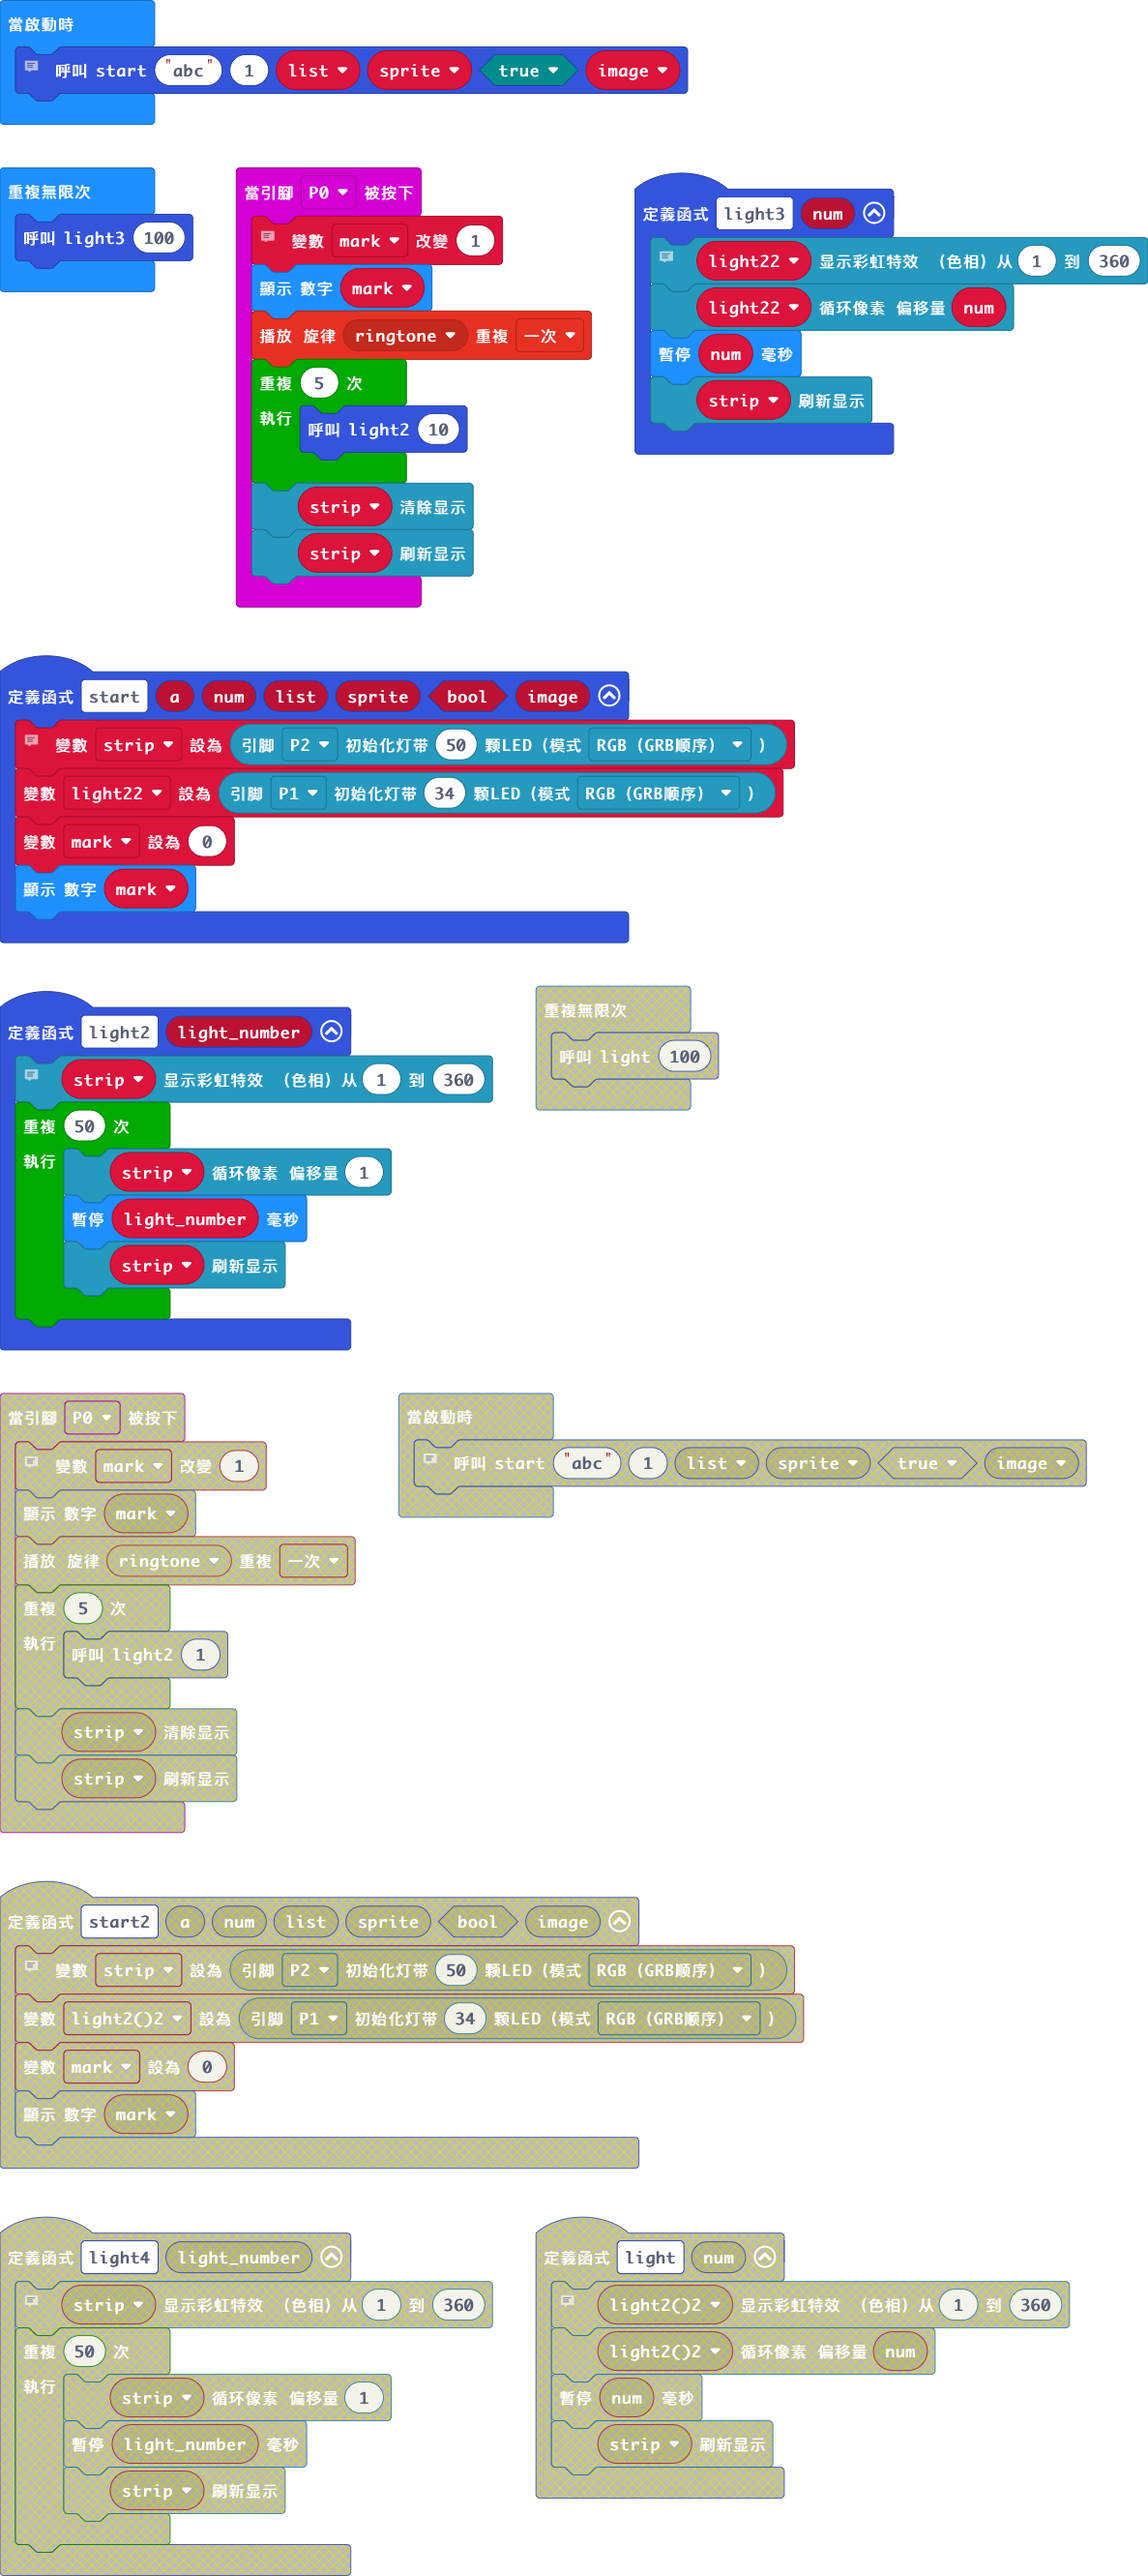
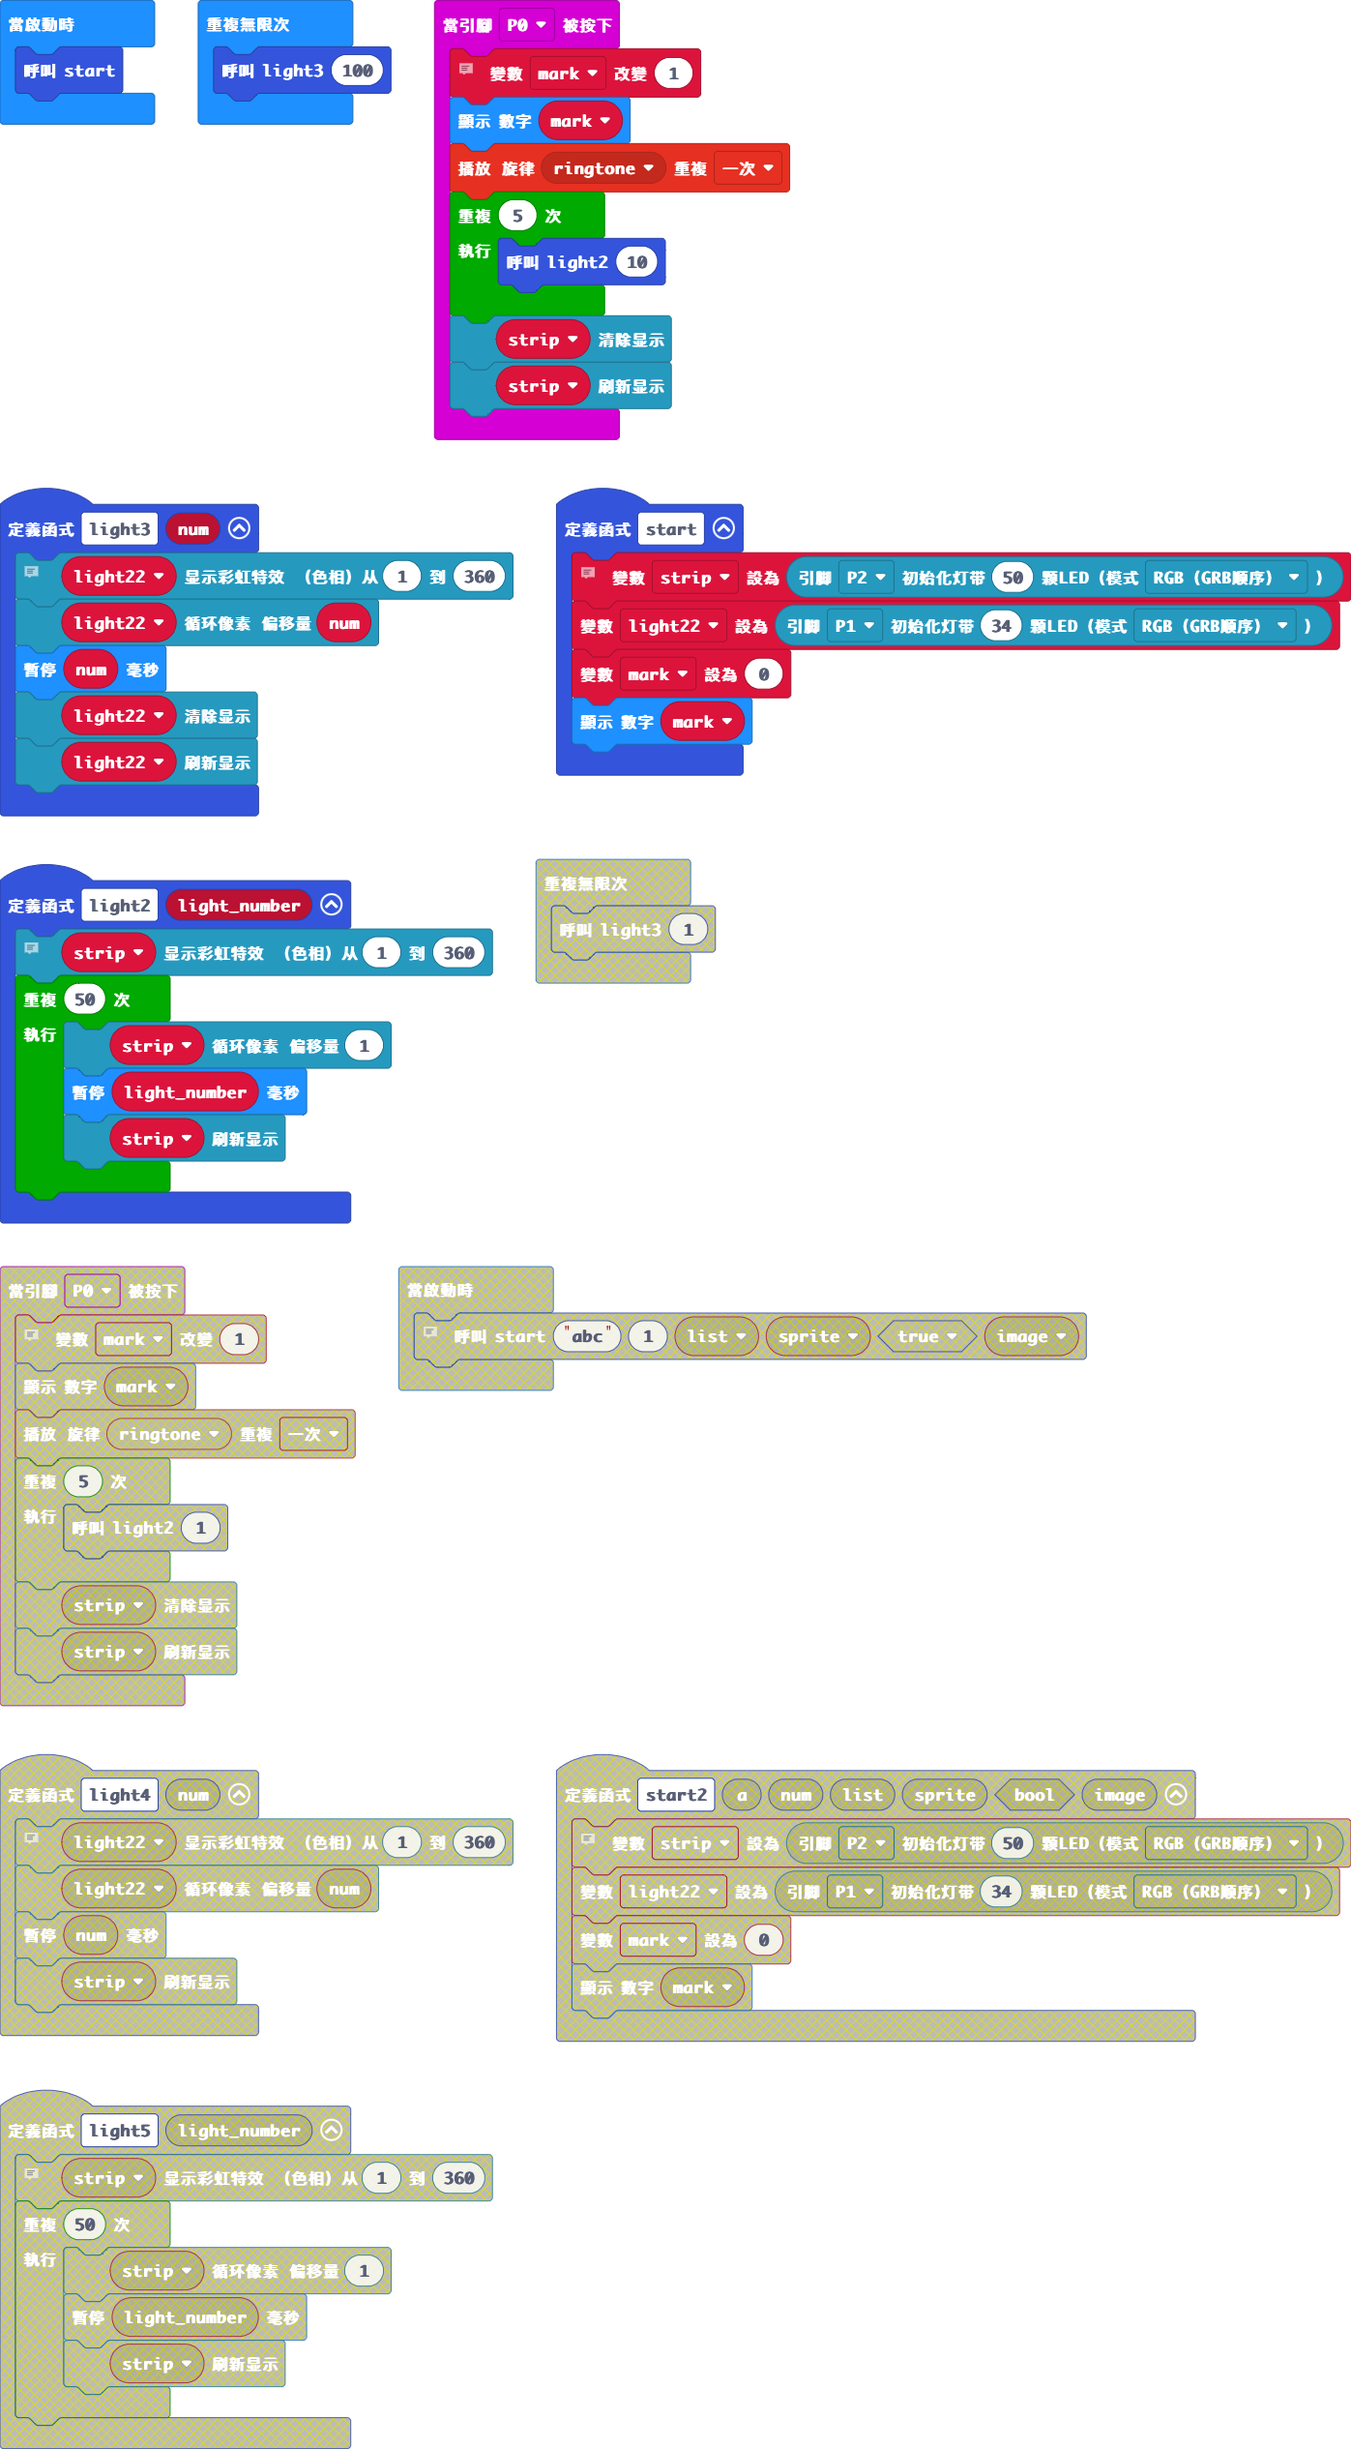
更新 pxt.json, main.blocks, main.ts

diff --git a/main.ts b/main.ts
@@ -17,9 +17,10 @@ function light3 (num: number) {
     light22.showRainbow(1, 360)
     light22.rotate(num)
     basic.pause(num)
-    strip.show()
+    light22.clear()
+    light22.show()
 }
-function start (a: string, num: number, list: any[], sprite: game.LedSprite, bool: boolean, image: Image) {
+function start () {
     // start
     strip = neopixel.create(DigitalPin.P2, 50, NeoPixelMode.RGB)
     light22 = neopixel.create(DigitalPin.P1, 34, NeoPixelMode.RGB)
@@ -38,11 +39,7 @@ function light2 (light_number: number) {
 let light22: neopixel.Strip = null
 let strip: neopixel.Strip = null
 let mark = 0
-let image: Image = null
-let sprite: game.LedSprite = null
-let list: number[] = []
-// start
-start("abc", 1, list, sprite, true, image)
+start()
 basic.forever(function () {
     light3(100)
 })
